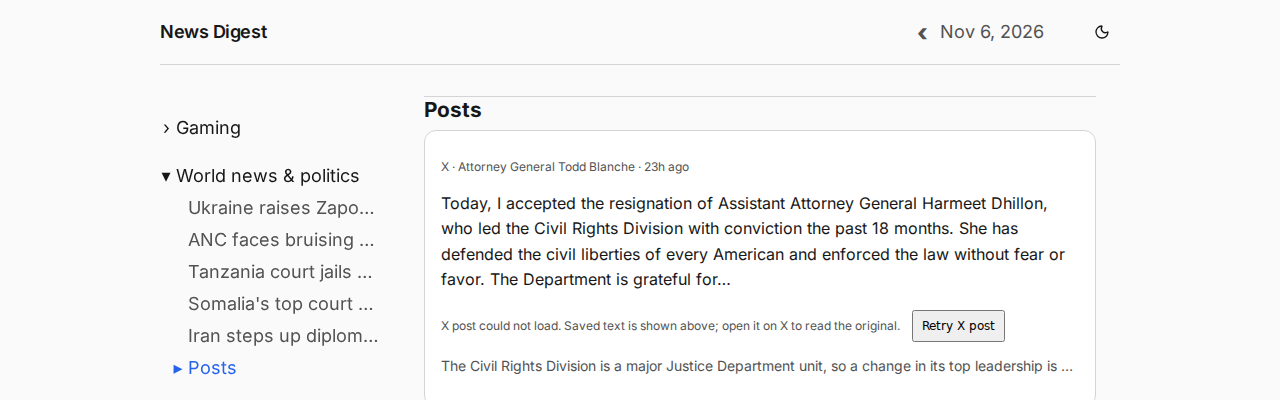
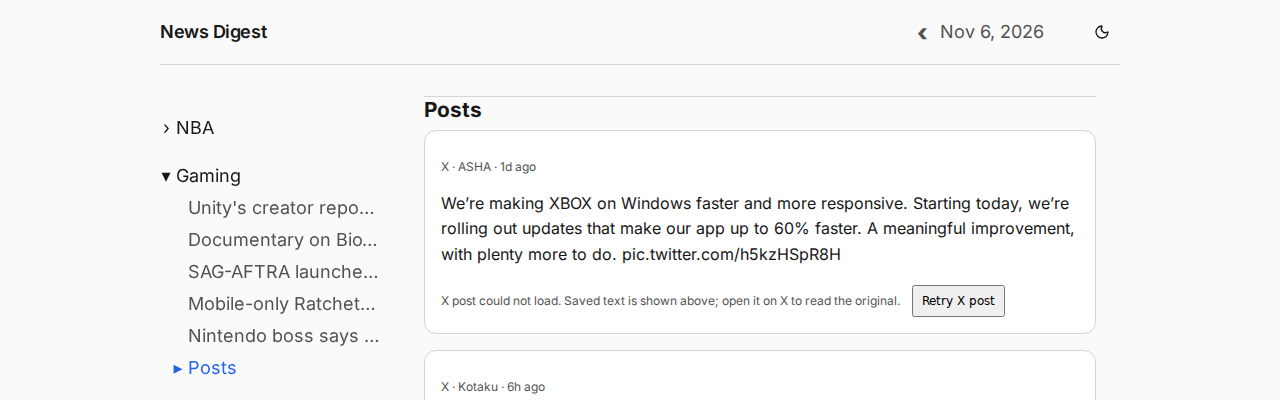
Keep current reader contents visible when resizing desktop

diff --git a/scripts/smoke-reader-short-contents.ts b/scripts/smoke-reader-short-contents.ts
@@ -8,7 +8,7 @@ async function smoke() {
   try {
     for (const theme of ['light', 'dark'] as const) {
       const page = await browser.newPage({
-        viewport: { width: 1280, height: 400 },
+        viewport: { width: 1280, height: 900 },
         colorScheme: theme,
         reducedMotion: 'reduce',
       });
@@ -26,6 +26,7 @@ async function smoke() {
         exact: true,
       });
       const targets = [
+        page.locator('.digest-topic').nth(-2).locator('[id^="posts-"]'),
         page.locator('.digest-topic').last().locator('[id^="posts-"]'),
         page.locator('.digest-topic').first().locator('h2'),
       ];
@@ -33,6 +34,10 @@ async function smoke() {
         const id = await target.getAttribute('id');
         await target.evaluate((element) => element.scrollIntoView());
         await navigation.locator(`a[href="#${id}"][aria-current]`).waitFor();
+        const readingPosition = await page.evaluate(() => window.scrollY);
+        if (target === targets[0]) {
+          await page.setViewportSize({ width: 1280, height: 400 });
+        }
         await page.waitForFunction(() => {
           const nav = document.querySelector(
             'nav[aria-label="Edition contents"]',
@@ -42,6 +47,10 @@ async function smoke() {
           const panel = nav.parentElement!.getBoundingClientRect();
           return entry.top >= panel.top - 1 && entry.bottom <= panel.bottom + 1;
         });
+        assert.equal(
+          await page.evaluate(() => window.scrollY),
+          readingPosition,
+        );
         const top = await target.evaluate(
           (element) => element.getBoundingClientRect().top,
         );
@@ -58,7 +67,7 @@ async function smoke() {
       await page.close();
     }
     console.log(
-      'Short desktop contents: active entries visible in both directions; light/dark passed.',
+      'Short desktop contents: active entries visible after resizing and in both directions; light/dark passed.',
     );
   } finally {
     await browser.close();

diff --git a/apps/web/src/ReaderContents.tsx b/apps/web/src/ReaderContents.tsx
@@ -70,17 +70,24 @@ export function ReaderContents({ topics }: { topics: Topic[] }) {
     ) ?? topics[0];
   useEffect(() => {
     const container = sidebar.current;
-    const entry = container?.querySelector<HTMLElement>(
-      '[aria-current="location"]',
-    );
-    if (!container || !entry || container.clientHeight === 0) return;
-    const bounds = entry.getBoundingClientRect();
-    const viewport = container.getBoundingClientRect();
-    // Reveal the current entry without scrolling the edition itself.
-    if (bounds.top < viewport.top)
-      container.scrollTop += bounds.top - viewport.top;
-    else if (bounds.bottom > viewport.bottom)
-      container.scrollTop += bounds.bottom - viewport.bottom;
+    if (!container) return;
+    const reveal = () => {
+      const entry = container.querySelector<HTMLElement>(
+        '[aria-current="location"]',
+      );
+      if (!entry || container.clientHeight === 0) return;
+      const bounds = entry.getBoundingClientRect();
+      const viewport = container.getBoundingClientRect();
+      // Reveal the current entry without scrolling the edition itself.
+      if (bounds.top < viewport.top)
+        container.scrollTop += bounds.top - viewport.top;
+      else if (bounds.bottom > viewport.bottom)
+        container.scrollTop += bounds.bottom - viewport.bottom;
+    };
+    reveal();
+    const observer = new ResizeObserver(reveal);
+    observer.observe(container);
+    return () => observer.disconnect();
   }, [active]);
   useEffect(() => {
     const container = chips.current;

diff --git a/PROGRESS.md b/PROGRESS.md
@@ -1,13 +1,3 @@
-## 2026-11-06: iteration 1014 — prepare shipper cache reclaim threshold
-
-- Started clean on main; no leftover work. Alerts clear, 13 services and 36 sources healthy; /healthz reports DB/Redis OK.
-- Owner value: prevent the observed shipper cache warning recurring and preserve operational log delivery under the existing memory ceiling.
-- Prepared MemoryHigh=64M below unchanged MemoryMax=80M, matching the logs/metrics reclaim approach. Live O2 verifier now requires the shipper threshold; updated affected handbook page.
-- Verification: pnpm format; pnpm lint:fix; pnpm check (560 unit/224 isolated integration); pnpm build; systemd-analyze verify ops/observability/obs-shipper.service; handbook check 09-observability; git diff --check passed.
-- Deployment deliberately deferred: still within 13:00–16:00 UTC freeze. Running shipper active, zero restarts, ~45 MiB, MemoryHigh=infinity; the new runtime assertion must wait for installation. No paid calls.
-- Next after 16:00: install unit/restart shipper, run --verify-o2 for threshold and seven-source delivery, deploy social editor v6 and verify app. X round after 21:00; Bluesky slot remains OFF awaiting owner.
-- SOURCES and NEEDS_FROM_HUMAN unchanged; no source or owner dependency changed.
-
 ## 2026-11-06: iteration 1015 — open cited sources from Bluesky cards
 
 - Started clean on main; no leftover work. Alerts clear, 13 services/36 sources healthy; /healthz DB/Redis OK.
@@ -173,3 +163,13 @@
 - API/worker restarted; health and alerts clear; saved edition retains four topics, 20 stories and 17 posts. No paid calls or source/schema/handbook-flow changes; SOURCES and NEEDS_FROM_HUMAN unchanged.
 - Initial push rejected by concurrent owner .gitignore commit d27912a6; merged it without conflicts, preserving owner-only .local/ exclusion. No runtime change in merge.
 - Next: continue approved reader completion; approved Bluesky slot activation pending under Current order; fresh X round after 21:00 UTC. Combined-check signal 143 recurs; standalone integration remains green.
+
+## 2026-11-06: iteration 1030 — preserve contents visibility on resize
+
+- Advanced item 33/43 while X items 39/34 wait until after 21:00 UTC. Started clean on main; no leftover work, alerts clear and /healthz DB/Redis OK.
+- Reader weakness: shrinking a desktop window hid the current contents entry below the panel (entry bottom 476 versus panel bottom 384). Sidebar resize observation now reveals it without moving the edition.
+- Extended read-only saved-edition browser regression from 1280×900 to 1280×400, retaining forward/backward short-window coverage and asserting unchanged scroll position; light/dark passed. Broader desktop/mobile light/dark reader layout passed. Updated resize screenshots and visually inspected light.
+- Passed pnpm build; pnpm exec tsx scripts/smoke-reader-short-contents.ts; pnpm exec tsx scripts/smoke-reader-layout.ts. Initial pnpm check stopped on script formatting during development; corrected before rerunning.
+- Final pnpm check passed (562 unit/225 isolated integration), pnpm format and pnpm lint:fix passed; git diff --check clean. API/worker restarted; /healthz DB/Redis OK, alerts clear; saved edition remains four topics, 20 stories and 17 posts.
+- Archived iteration 1014 to keep PROGRESS small. No source/schema/handbook-flow changes or paid calls; SOURCES and NEEDS_FROM_HUMAN unchanged.
+- Next: continue approved reader completion; approved Bluesky slot activation pending under Current order; fresh X round after 21:00 UTC.

diff --git a/docs/progress-archive/2026-11-06-iteration-1014.md b/docs/progress-archive/2026-11-06-iteration-1014.md
@@ -1,0 +1,9 @@
+## 2026-11-06: iteration 1014 — prepare shipper cache reclaim threshold
+
+- Started clean on main; no leftover work. Alerts clear, 13 services and 36 sources healthy; /healthz reports DB/Redis OK.
+- Owner value: prevent the observed shipper cache warning recurring and preserve operational log delivery under the existing memory ceiling.
+- Prepared MemoryHigh=64M below unchanged MemoryMax=80M, matching the logs/metrics reclaim approach. Live O2 verifier now requires the shipper threshold; updated affected handbook page.
+- Verification: pnpm format; pnpm lint:fix; pnpm check (560 unit/224 isolated integration); pnpm build; systemd-analyze verify ops/observability/obs-shipper.service; handbook check 09-observability; git diff --check passed.
+- Deployment deliberately deferred: still within 13:00–16:00 UTC freeze. Running shipper active, zero restarts, ~45 MiB, MemoryHigh=infinity; the new runtime assertion must wait for installation. No paid calls.
+- Next after 16:00: install unit/restart shipper, run --verify-o2 for threshold and seven-source delivery, deploy social editor v6 and verify app. X round after 21:00; Bluesky slot remains OFF awaiting owner.
+- SOURCES and NEEDS_FROM_HUMAN unchanged; no source or owner dependency changed.

diff --git a/STEERING.md b/STEERING.md
@@ -1648,3 +1648,5 @@ ack: 2026-11-06 item 33/43 — iteration 1027: readers can expand compact +N gro
 ack: 2026-11-06 item 33/43 — iteration 1028: readers can scan compact relative publication times on X, Bluesky and Reddit cards, with exact timestamps on hover and for screen readers. Desktop/mobile light/dark verified; no paid calls.
 
 ack: 2026-11-06 item 33/43 — iteration 1029: readers on short desktop windows can keep the current story/post visible in the independently scrolling contents panel; edition position stays fixed. Light/dark and both scroll directions verified; no paid calls.
+
+ack: 2026-11-06 item 33/43 — iteration 1030: resizing a desktop window now keeps the current contents entry visible without moving the edition. Reproduced the hidden entry before the change; saved-edition light/dark resize and forward/backward navigation verified. No paid calls.

diff --git a/TASKS.md b/TASKS.md
@@ -41,6 +41,8 @@ Fix failures first. STEERING overrides older notes. [Prior detail through 846](d
 
 ## Latest verified step
 
+- [x] Resized contents (1030, item 33): shrinking the desktop window keeps the current entry visible without moving the edition; existing short-window navigation preserved.
+
 - [x] Visible current contents (1029, item 33): short desktop windows reveal the active story/post entry by scrolling only the contents panel, preserving the edition reading position.
 
 - [x] Compact post timestamps (1028, item 33): X, Bluesky and Reddit cards share refreshing relative ages with exact saved timestamps retained for hover and screen readers.
